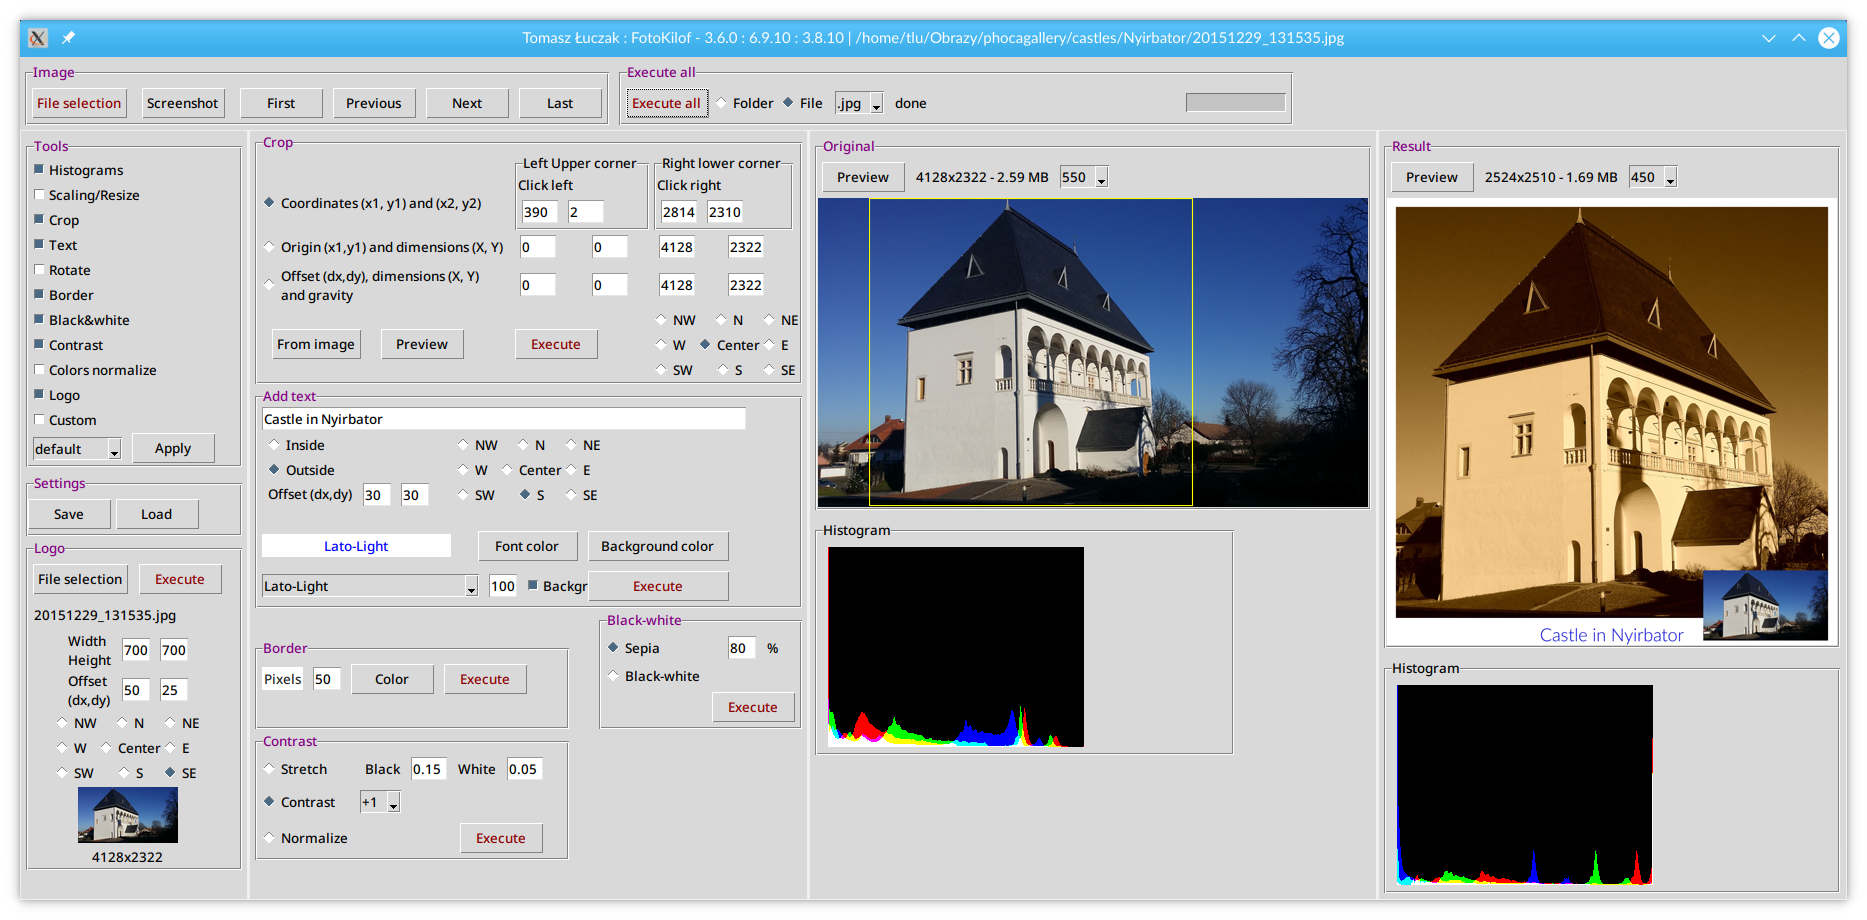
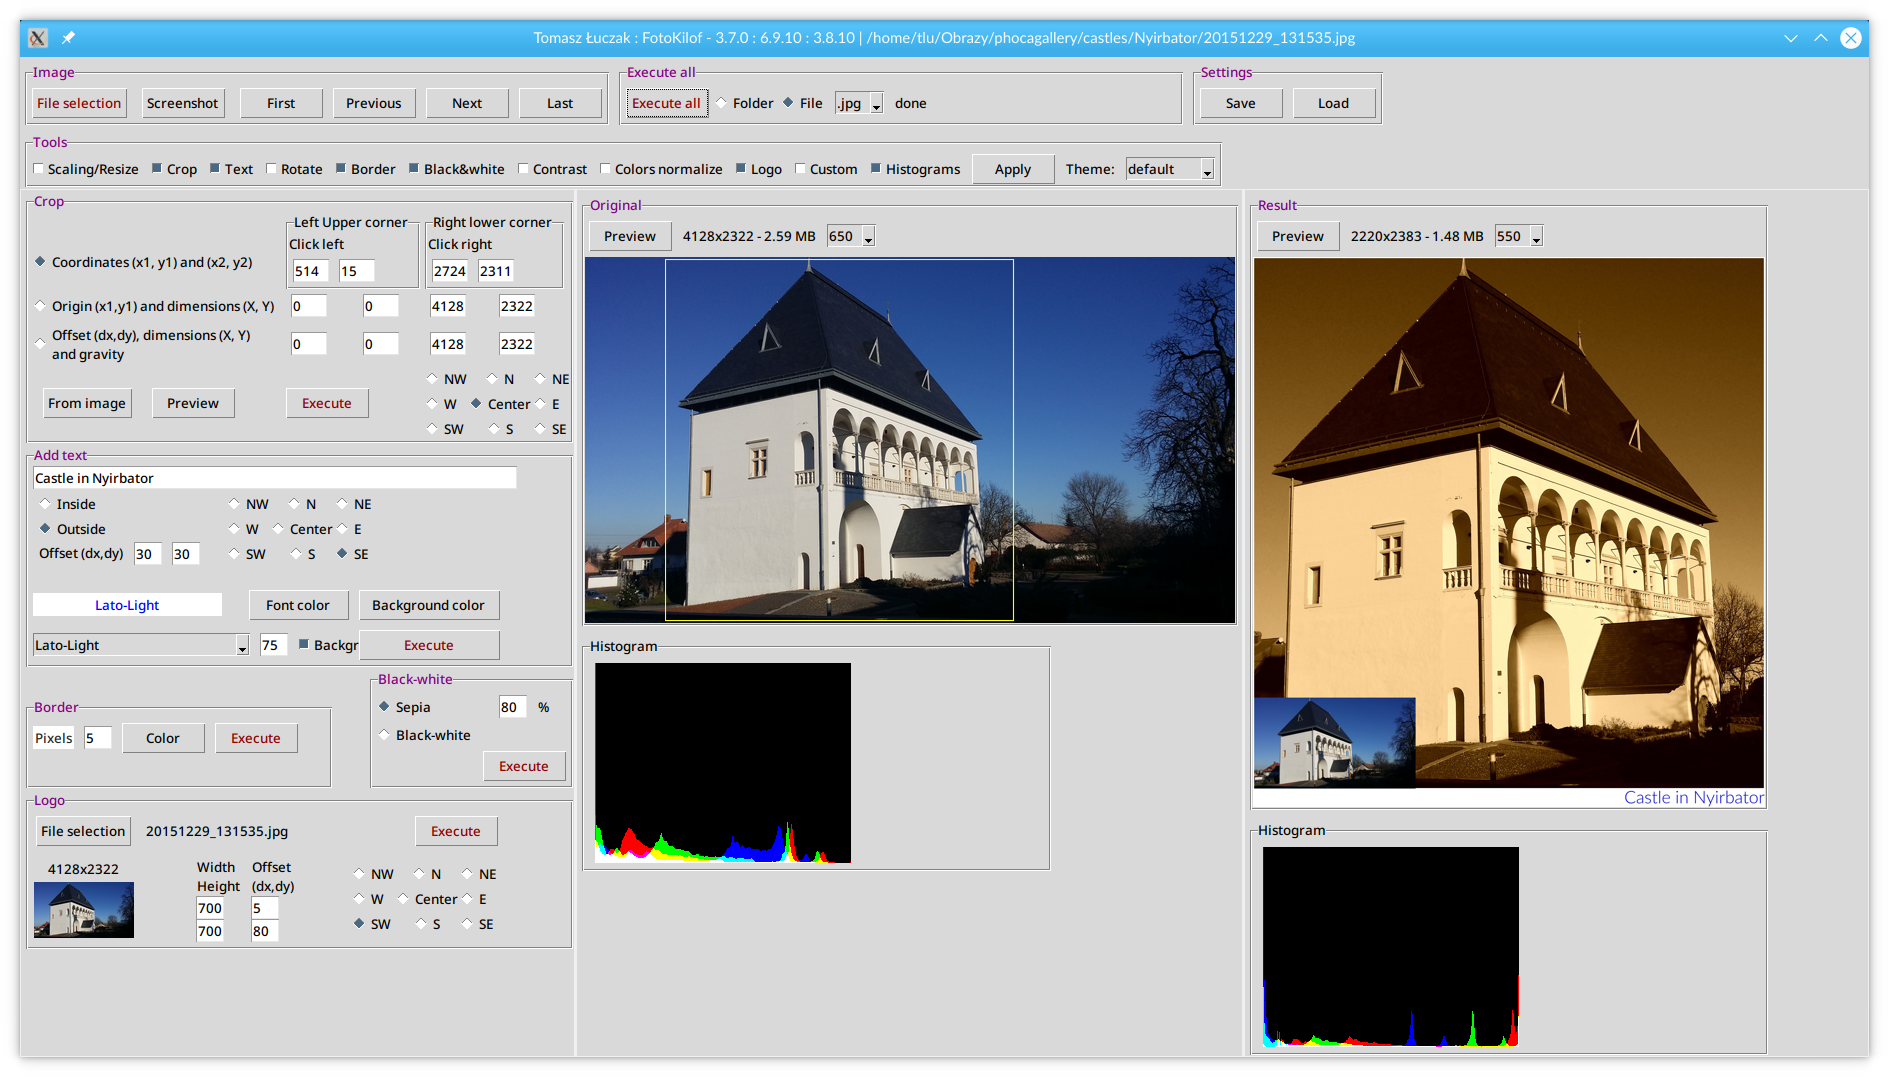
3.7.0

diff --git a/CHANGES.md b/CHANGES.md
@@ -3,6 +3,8 @@
 
 ## 2021
 
+3.7.0 new layout, tools selection has own row instead column
+
 3.6.1 better recognize new version ImageMagick under Windows
 
 3.6.0 faster under Windows (result preview by Pillow), result is copied into clipboard (only Windows)
